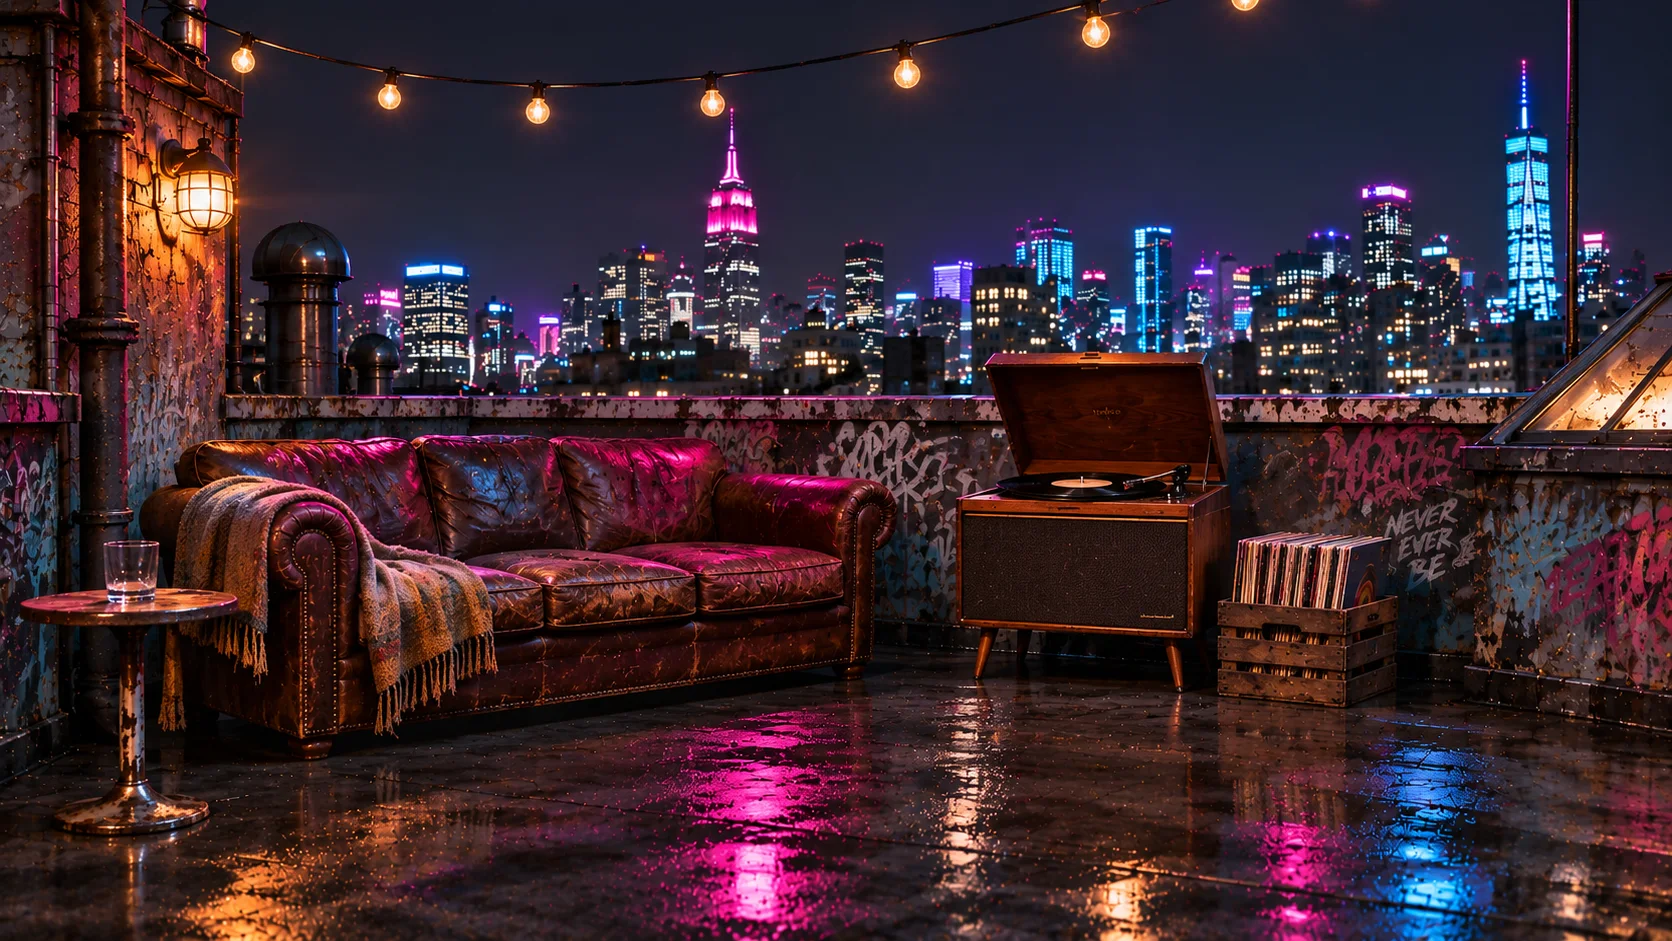
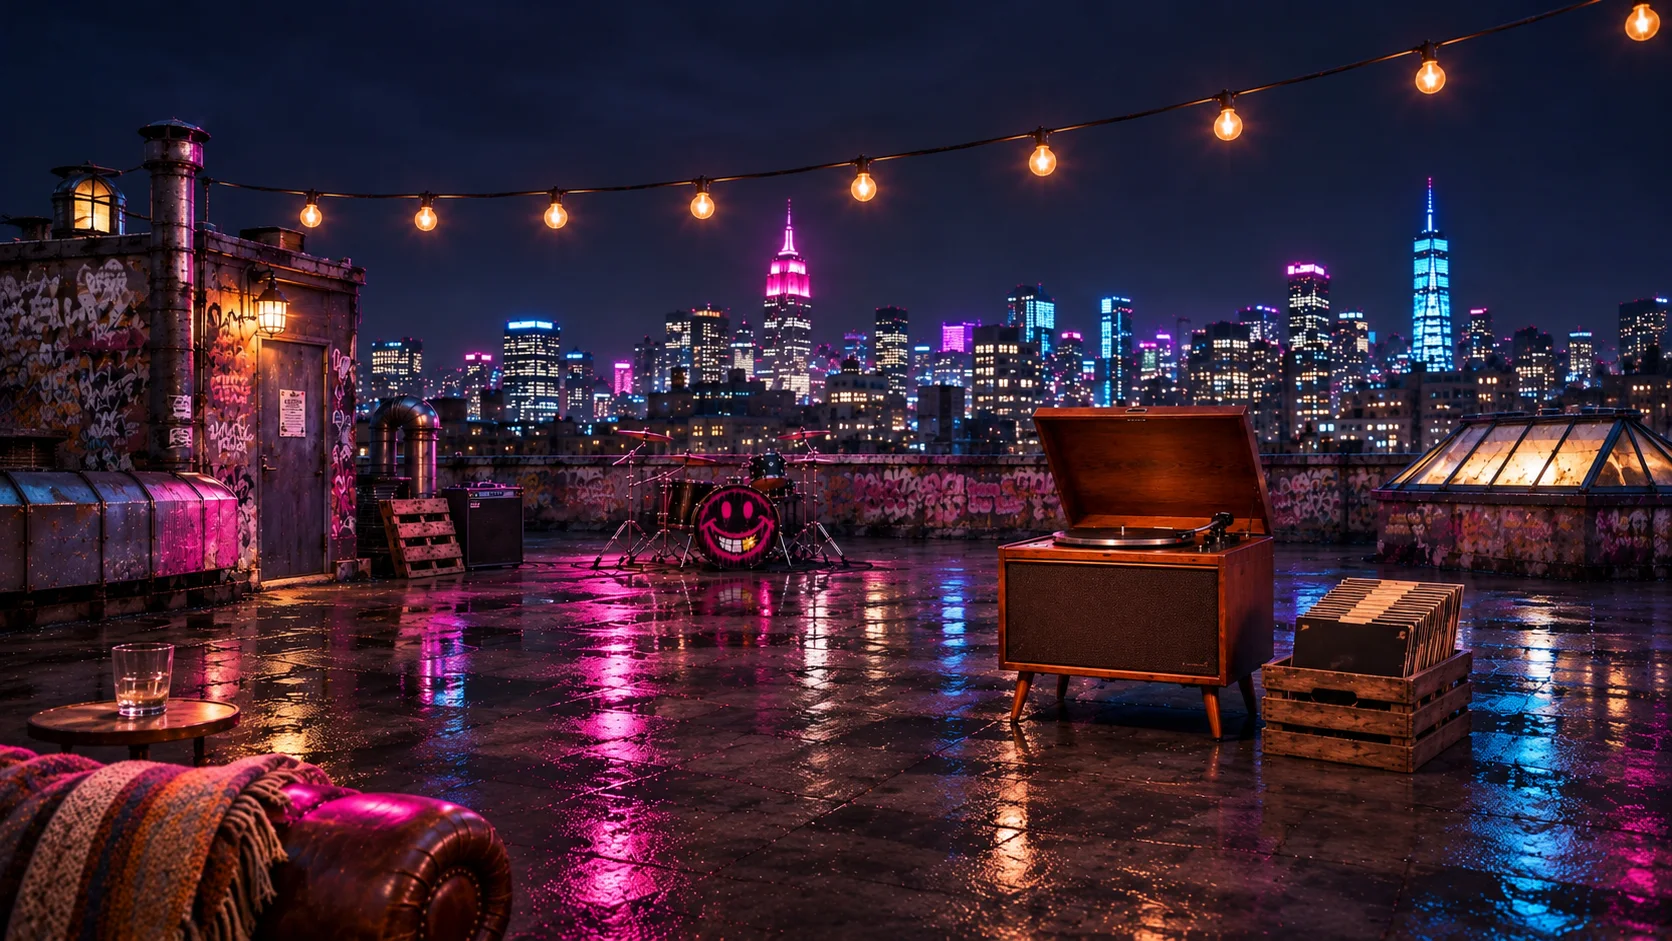
Lounge: new wide + roomier record player shot with matching crate
Claude-Session: https://claude.ai/code/session_011gssdMsenVXumrh9a32rRB

diff --git a/index.html b/index.html
@@ -197,21 +197,21 @@ input{flex:1 1 220px;min-width:0;font:inherit;font-size:16px;padding:12px;backgr
 .lg-hero{z-index:3;background:url(img/rooftop-band.webp) 0 0/1672px 941px;pointer-events:none}
 .lg-cam img{position:absolute;display:block;user-select:none;-webkit-user-drag:none}
 .lg-bg{left:0;top:0;width:1672px;height:941px}
-.lg-front{left:786px;top:499px;width:886px;height:442px;pointer-events:none}
+.lg-front{left:775px;top:486px;width:809px;height:410px;pointer-events:none}
 .lg-cam svg{position:absolute;left:0;top:0;width:1672px;height:941px;overflow:visible;pointer-events:none}
 .lg-hot{all:unset;position:absolute;cursor:pointer;border-radius:10px;z-index:4}
 .lg-hot:focus-visible{outline:4px solid var(--cyan);outline-offset:4px}
-.lg-hot.crate{left:1340px;top:575px;width:332px;height:366px}
-.lg-hot.deck{left:905px;top:450px;width:440px;height:105px}
-.lg-tag{position:absolute;left:1372px;top:470px;z-index:4;font-family:var(--tube);font-size:30px;color:#fff;padding:8px 22px;border:3px solid var(--pink);border-radius:40px;background:rgba(5,6,10,.6);box-shadow:0 0 14px var(--pink);text-shadow:0 0 10px var(--pink);pointer-events:none;animation:lgpulse 2.2s ease-in-out infinite;white-space:nowrap}
+.lg-hot.crate{left:1218px;top:495px;width:362px;height:400px}
+.lg-hot.deck{left:870px;top:425px;width:380px;height:75px}
+.lg-tag{position:absolute;left:1268px;top:418px;z-index:4;font-family:var(--tube);font-size:30px;color:#fff;padding:8px 22px;border:3px solid var(--pink);border-radius:40px;background:rgba(5,6,10,.6);box-shadow:0 0 14px var(--pink);text-shadow:0 0 10px var(--pink);pointer-events:none;animation:lgpulse 2.2s ease-in-out infinite;white-space:nowrap}
 .lg-tag[hidden]{display:none}
 @keyframes lgpulse{0%,100%{transform:translateY(0);opacity:1}50%{transform:translateY(-8px);opacity:.75}}
 /* front-of-console player: sits on the speaker grille */
-.lg-panel{transition:opacity .3s;position:absolute;left:836px;top:598px;width:414px;height:214px;z-index:4;transform:rotate(1.6deg);transform-origin:0 0;padding:22px 26px;background:rgba(5,6,10,.5);border:1.5px solid rgba(255,61,127,.35);border-radius:6px;box-shadow:inset 0 0 40px rgba(0,0,0,.6);backdrop-filter:blur(2px);display:flex;flex-direction:column;gap:10px;font-family:var(--mono);color:var(--fog)}
-.lg-panel small{font-size:15px;letter-spacing:.25em;text-transform:uppercase;color:var(--pink)}
-.lg-panel b{font-family:var(--tube);font-weight:400;font-size:40px;line-height:1.05;color:#fff;text-shadow:0 0 10px var(--pink)}
-.lg-panel .row{display:flex;align-items:center;gap:14px;font-size:17px}
-.lg-pp{all:unset;cursor:pointer;width:46px;height:46px;border-radius:50%;border:2.5px solid var(--pink);display:grid;place-items:center;box-shadow:0 0 10px var(--pink);flex:none}
+.lg-panel{transition:opacity .3s;position:absolute;left:822px;top:546px;width:336px;height:166px;z-index:4;padding:15px 20px;background:rgba(5,6,10,.5);border:1.5px solid rgba(255,61,127,.35);border-radius:6px;box-shadow:inset 0 0 40px rgba(0,0,0,.6);backdrop-filter:blur(2px);display:flex;flex-direction:column;gap:7px;font-family:var(--mono);color:var(--fog)}
+.lg-panel small{font-size:12px;letter-spacing:.25em;text-transform:uppercase;color:var(--pink)}
+.lg-panel b{font-family:var(--tube);font-weight:400;font-size:30px;line-height:1.05;color:#fff;text-shadow:0 0 10px var(--pink)}
+.lg-panel .row{display:flex;align-items:center;gap:12px;font-size:14px}
+.lg-pp{all:unset;cursor:pointer;width:38px;height:38px;border-radius:50%;border:2.5px solid var(--pink);display:grid;place-items:center;box-shadow:0 0 10px var(--pink);flex:none}
 .lg-pp:focus-visible{outline:3px solid var(--cyan);outline-offset:3px}
 .lg-pp i{display:block;width:0;height:0;border-left:15px solid #fff;border-top:9px solid transparent;border-bottom:9px solid transparent;margin-left:4px}
 .lg-pp.playing i{width:14px;height:17px;border:0;margin:0;background:linear-gradient(90deg,#fff 0 35%,transparent 35% 65%,#fff 65%)}
@@ -270,7 +270,7 @@ input{flex:1 1 220px;min-width:0;font:inherit;font-size:16px;padding:12px;backgr
   .lg-panel{position:absolute;pointer-events:auto;left:12px;right:12px;top:auto;bottom:calc(12px + env(safe-area-inset-bottom,0px));width:auto;height:auto;transform:none;background:var(--glass);border-color:var(--line);padding:14px 16px;gap:8px}
   .lg-panel small{font-size:11px}.lg-panel b{font-size:24px}.lg-panel .row{font-size:13px}
   .lg-pp{width:40px;height:40px}
-  .lg-tag{font-size:40px;left:1360px;top:480px}
+  .lg-tag{font-size:40px;left:1250px;top:400px}
 }
 @media (prefers-reduced-motion:reduce){.lg-tag{animation:none}.lg-dig,.dig-sl{transition:none}}
 </style>
@@ -284,6 +284,7 @@ input{flex:1 1 220px;min-width:0;font:inherit;font-size:16px;padding:12px;backgr
         <radialGradient id="lg-vinyl" cx=".5" cy=".5" r=".5"><stop offset="0" stop-color="#1a1a20"/><stop offset=".36" stop-color="#0c0c10"/><stop offset=".37" stop-color="#16161c"/><stop offset="1" stop-color="#08080b"/></radialGradient>
         <filter id="lg-rim" x="-20%" y="-20%" width="140%" height="140%"><feGaussianBlur stdDeviation="5"/></filter>
       </defs>
+      <g id="lg-world" transform="matrix(.87 0 0 .87 77.4 29.7)">
       <g id="lg-rec" opacity="0">
         <g id="lg-spin">
           <circle r="150" fill="url(#lg-vinyl)"/>
@@ -306,6 +307,7 @@ input{flex:1 1 220px;min-width:0;font:inherit;font-size:16px;padding:12px;backgr
         <g id="lg-guy-body" stroke="#07070b" fill="#07070b" stroke-linecap="round" stroke-linejoin="round"></g>
       </g>
       <g id="lg-sleeve" opacity="0"><rect x="-88" y="0" width="176" height="176" rx="3" fill="#0b0b12" stroke="#ff3d7f" stroke-opacity=".6" stroke-width="2"/><image href="img/smile-logo.webp" x="-48" y="26" width="96" height="96"/><text x="0" y="158" text-anchor="middle" font-family="Yellowtail, cursive" font-size="26" fill="#fff">Don't Mind It</text></g>
+      </g>
     </svg>
     <img class="lg-front" src="img/lounge-front.webp" alt="" width="886" height="442">
     <svg aria-hidden="true"><g id="lg-hold"></g></svg>
@@ -470,9 +472,9 @@ input{flex:1 1 220px;min-width:0;font:inherit;font-size:16px;padding:12px;backgr
     const pan=$("lg-panel"), ui=document.querySelector(".lg-ui");
     if(portrait()){ if(pan.parentNode!==ui) ui.insertBefore(pan,ui.firstChild); } else if(pan.parentNode!==cam) cam.appendChild(pan);
     if(portrait()){ // phones: show the console + crate side, letterboxed over a blurred fill
-      S=w/880; OX=-792*S; OY=Math.max(60,(h-H0*S)/2-90);
+      S=w/830; OX=-765*S; OY=Math.max(60,(h-H0*S)/2-110);
     }else{ // keep the console and the whole crate in frame; crop sky first
-      S=Math.max(w/W0,h/H0); OX=(w-W0*S)*0.9; OY=(h-H0*S)*0.9;
+      S=Math.max(w/W0,h/H0); OX=(w-W0*S)*0.75; OY=(h-H0*S)*0.7;
     }
     if(!anim) cam.style.transform=`translate(${OX}px,${OY}px) scale(${S})`;
   }
@@ -480,7 +482,7 @@ input{flex:1 1 220px;min-width:0;font:inherit;font-size:16px;padding:12px;backgr
 
   /* ---------- transition: stage -> pull back to the wide lounge -> push in on the record player ---------- */
   const wide=$("lg-wide");
-  const WC={x:1093,y:491,w:273}, CC={x:1102,y:537,w:625}; // console centre + width in the wide shot / the close-up
+  const WC={x:1136,y:544,w:272}, CC={x:1026,y:493,w:492}; // console centre + width in the wide shot / the close-up
   let anim=null;
   function heroBox(){
     const w=stg.clientWidth,h=stg.clientHeight,s=Math.max(w/W0,h/H0);
@@ -501,11 +503,13 @@ input{flex:1 1 220px;min-width:0;font:inherit;font-size:16px;padding:12px;backgr
     if(still){ hero.style.display="none"; wide.style.opacity="0"; cam.style.opacity="1"; frame(); return; }
     const hb=heroBox(), wb=wideBox(), cx=innerWidth/2, cy=innerHeight/2;
     hero.style.display="block"; hero.style.opacity="1"; wide.style.opacity="0"; cam.style.opacity="0"; $("lg-panel").style.opacity="0";
-    // A: the camera pulls back off the stage and the wide lounge comes in
-    run(650,t=>{
-      const e=out(t), hs=hb.s*(1-.22*e);
-      T(hero,cx+(hb.ox-cx)*(hs/hb.s),cy+(hb.oy-cy)*(hs/hb.s),hs); hero.style.opacity=String(1-cl(t*1.6-.3));
-      const ws=wb.s*(1.18-.18*e); T(wide,cx+(wb.ox-cx)*(ws/wb.s),cy+(wb.oy-cy)*(ws/wb.s),ws); wide.style.opacity=String(cl(t*1.8));
+    // A: matched pull-back on the drum kit: stage -> wide lounge
+    const DH={x:1045,y:585,r:63}, DW={x:737,y:540,r:43};
+    const ax0=hb.ox+DH.x*hb.s, ay0=hb.oy+DH.y*hb.s, ax1=wb.ox+DW.x*wb.s, ay1=wb.oy+DW.y*wb.s, ws0=hb.s*DH.r/DW.r;
+    run(900,t=>{
+      const e=io(t), ws=ws0*Math.pow(wb.s/ws0,e), ax=ax0+(ax1-ax0)*e, ay=ay0+(ay1-ay0)*e, hs=ws*DW.r/DH.r;
+      T(wide,ax-DW.x*ws,ay-DW.y*ws,ws); wide.style.opacity=String(cl(t*2.2));
+      T(hero,ax-DH.x*hs,ay-DH.y*hs,hs); hero.style.opacity=String(1-cl(t*2-.25));
     },()=>{ hero.style.display="none";
       // B: a beat on the full lounge, then C: push in on the record player and land on the close-up
       setTimeout(()=>{
@@ -536,8 +540,8 @@ input{flex:1 1 220px;min-width:0;font:inherit;font-size:16px;padding:12px;backgr
     if($("dig").classList.contains("open")) return;
     crFrame(); show(); setMode("crate");
     if(!still&&!anim){ // push the camera into the crate, then cut into the crate shot
-      const cx=OX+1505*S, cy=OY+765*S;
-      run(420,t=>{ const s=S*(1+1.3*io(t)); T(cam,cx-1505*s,cy-765*s,s); },()=>{ frame(); });
+      const cx=OX+1400*S, cy=OY+700*S;
+      run(420,t=>{ const s=S*(1+1.6*io(t)); T(cam,cx-1400*s,cy-700*s,s); },()=>{ frame(); });
       setTimeout(()=>{ $("dig").classList.add("open"); },160);
     } else $("dig").classList.add("open");
     $("dig").setAttribute("aria-hidden","false");
@@ -597,15 +601,15 @@ input{flex:1 1 220px;min-width:0;font:inherit;font-size:16px;padding:12px;backgr
       return typeof a==="number"?a+(b-a)*u:{x:a.x+(b.x-a.x)*u,y:a.y+(b.y-a.y)*u}; } }
     return keys[keys.length-1][1];
   }
-  const PIV={x:1300,y:470}, ARM_L=97, PLAT={x:1072,y:498,rx:150,q:.137};
+  const PIV={x:1283.4,y:471.6}, ARM_L=120, PLAT={x:1072,y:498,rx:150,q:.108};
   const angTo=pt=>Math.atan2(pt.y-PIV.y,pt.x-PIV.x);
-  const A_REST=angTo({x:1322,y:562}), A_OUT=angTo({x:1212,y:511}), A_IN=angTo({x:1150,y:508});
+  const A_REST=angTo({x:1265,y:527}), A_OUT=angTo({x:1215,y:506}), A_IN=angTo({x:1124,y:494});
   const armHead=(a,lift)=>({x:PIV.x+Math.cos(a)*ARM_L,y:PIV.y+Math.sin(a)*ARM_L-(lift||0)});
   const X=1525, X2=1445, HIPY=FY-.5*H+4;
   const K={
     hip:[[0,{x:1860,y:HIPY}],[1.9,{x:X,y:HIPY}],[2.3,{x:X,y:HIPY}],[2.8,{x:X-6,y:HIPY+46}],[3.3,{x:X-6,y:HIPY+46}],[3.9,{x:X,y:HIPY}],[5.1,{x:X,y:HIPY}],[5.9,{x:X2,y:HIPY}],[9.2,{x:X2,y:HIPY}],[9.9,{x:1480,y:HIPY}],[11.6,{x:1480,y:HIPY}],[13.4,{x:1880,y:HIPY}]],
     lean:[[0,4],[1.9,0],[2.3,0],[2.8,-24],[3.3,-24],[3.9,-4],[5.1,-4],[5.9,-17],[8.6,-17],[9.3,-3],[11.6,-3],[12,4]],
-    handA:[[0,{x:1770,y:600}],[1.9,{x:1455,y:600}],[2.3,{x:1450,y:595}],[2.8,{x:1466,y:648}],[3.2,{x:1466,y:640}],[3.9,{x:1446,y:438}],[4.7,{x:1370,y:448}],[5.1,{x:1356,y:452}],[5.9,{x:1250,y:430}],[6.9,{x:1222,y:494}],[7.2,{x:1240,y:520}],[7.6,{x:1322,y:552}],[8.2,{x:1212,y:494}],[8.6,{x:1212,y:505}],[9.3,{x:1395,y:600}],[11.6,{x:1420,y:605}],[13.4,{x:1820,y:605}]],
+    handA:[[0,{x:1770,y:600}],[1.9,{x:1455,y:600}],[2.3,{x:1450,y:595}],[2.8,{x:1466,y:648}],[3.2,{x:1466,y:640}],[3.9,{x:1446,y:438}],[4.7,{x:1370,y:448}],[5.1,{x:1356,y:452}],[5.9,{x:1250,y:430}],[6.9,{x:1222,y:494}],[7.2,{x:1240,y:520}],[7.6,{x:1265,y:527}],[8.2,{x:1215,y:497}],[8.6,{x:1215,y:506}],[9.3,{x:1395,y:600}],[11.6,{x:1420,y:605}],[13.4,{x:1820,y:605}]],
     handB:[[0,{x:1915,y:605}],[1.9,{x:1595,y:605}],[2.8,{x:1580,y:640}],[3.3,{x:1580,y:640}],[3.9,{x:1560,y:438}],[4.7,{x:1556,y:445}],[5.1,{x:1540,y:610}],[9.3,{x:1525,y:600}],[11.6,{x:1545,y:605}],[13.4,{x:1945,y:605}]]
   };
   function feet(hip,t){
@@ -617,7 +621,7 @@ input{flex:1 1 220px;min-width:0;font:inherit;font-size:16px;padding:12px;backgr
   /* ---------- scene state ---------- */
   const rec=$("lg-rec"), spin=$("lg-spin"), slv=$("lg-sleeve"), guy=$("lg-guy");
   let seq=-1, seqT0=0, recOn=false, spinA=0, spinV=0, armA=A_REST, armLift=0, lastNow=performance.now();
-  const svgEl=$("lg-svg"), armEl=$("lg-arm");
+  const svgEl=$("lg-world"), armEl=$("lg-arm");
   function recLayer(front){ if(front){ if(svgEl.lastElementChild!==rec) svgEl.appendChild(rec); } else if(rec.nextElementSibling!==armEl) svgEl.insertBefore(rec,armEl); }
   function setRec(x,y,r,q,o){ rec.setAttribute("transform",`translate(${x} ${y}) scale(${r/150} ${r/150*q})`); rec.setAttribute("opacity",o); }
   function drawArm(){
